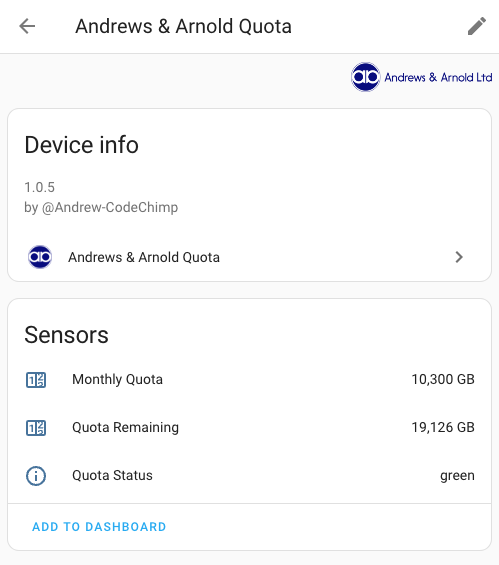
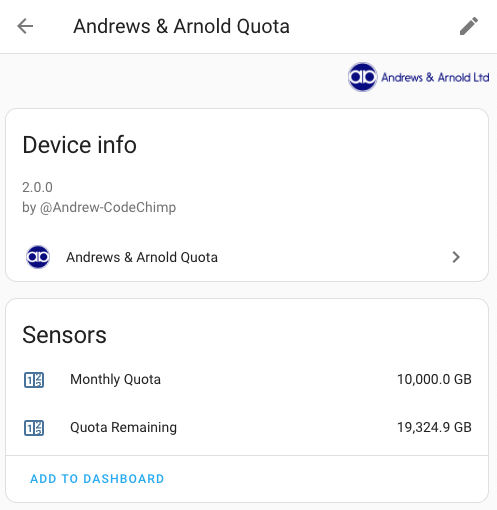
Update screenshot, add blank username/password check

diff --git a/custom_components/andrews_arnold_quota/__init__.py b/custom_components/andrews_arnold_quota/__init__.py
@@ -59,6 +59,9 @@ async def async_setup_entry(hass: HomeAssistant, entry: ConfigEntry) -> bool:
     if CONF_USERNAME not in entry.data or CONF_PASSWORD not in entry.data:
         raise ConfigEntryAuthFailed("Unable to login, please re-login.") from None
 
+    if entry.data[CONF_USERNAME] == "" or entry.data[CONF_PASSWORD] == "":
+        raise ConfigEntryAuthFailed("Unable to login, please re-login.") from None
+
     client = AndrewsArnoldQuotaApiClient(
         session=session,
         username=entry.data[CONF_USERNAME],
